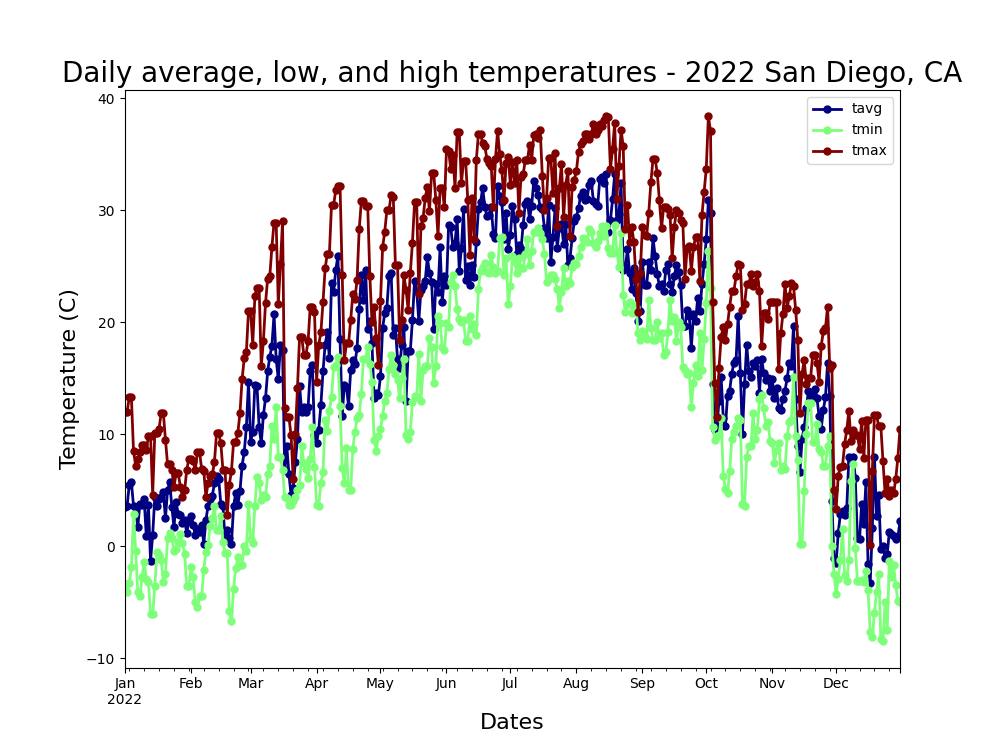
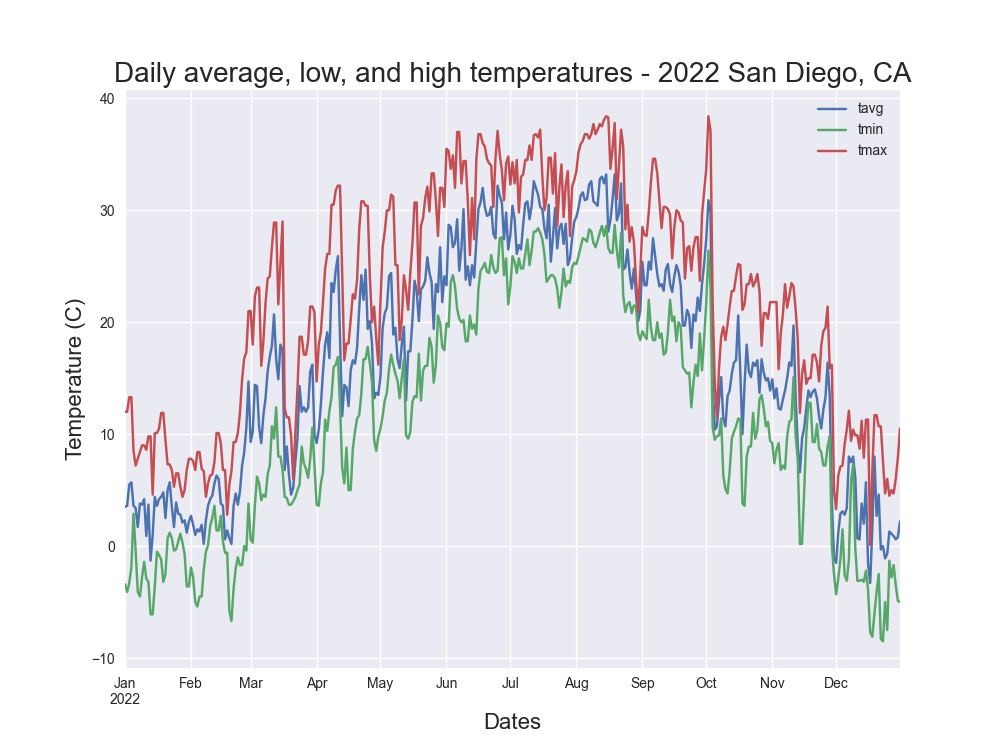
Edited one of the charts to match the other ones

diff --git a/san_diego_lows_averages_highs.py b/san_diego_lows_averages_highs.py
@@ -1,5 +1,6 @@
 # Import libraries and dependencies
 from datetime import datetime
+import matplotlib
 import matplotlib.pyplot as plt
 from meteostat import Point, Daily
 
@@ -13,14 +14,11 @@ san_diego = Point(32.7157, 117.1611, 62)
 # Get daily data
 data = Daily(san_diego, start, end)
 data = data.fetch()
+plt.style.use('seaborn')
 
 # Plot line chart showing minimum, average, and maximum temperature
 ax = data.plot(
     y=['tavg', 'tmin', 'tmax'],
-    lw=2,
-    colormap='jet',
-    marker='.',
-    markersize=10,
     figsize=(10, 7.5)
     )
 ax.set_title("Daily average, low, and high temperatures - 2022 San Diego, CA", fontsize=20)
